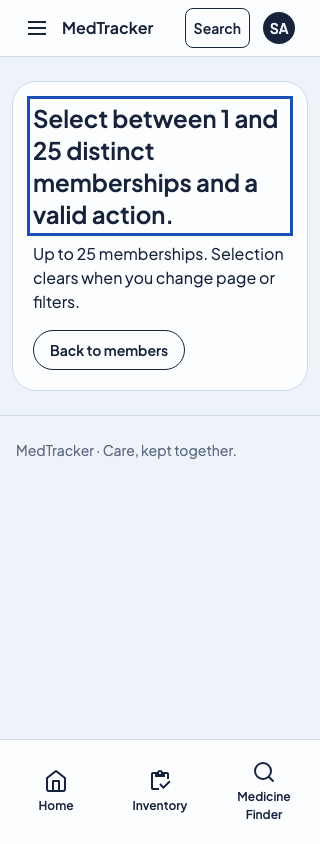
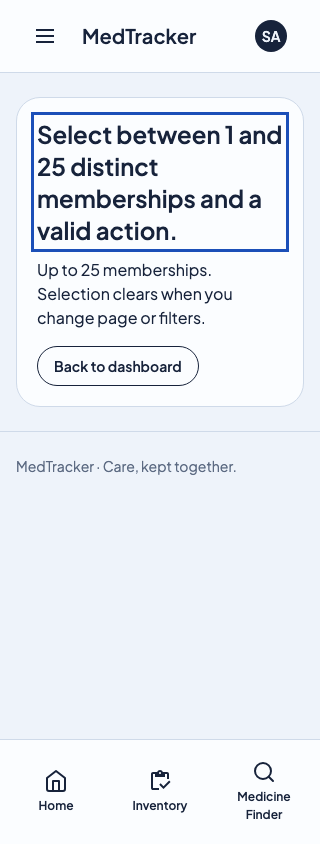
fix: keep invalid bulk submissions outside household navigation

diff --git a/assets/views/administration/bulk_invalid.html b/assets/views/administration/bulk_invalid.html
@@ -1,4 +1,4 @@
 {% extends "layouts/base.html" %}
 {% block content %}
-<section class="admin-page"><div class="shell-panel p-5"><h1 class="text-2xl font-semibold" tabindex="-1" autofocus>{{ title }}</h1><p class="mt-3">{{ bulk_labels.limit }}</p><a class="btn btn-outline mt-4" href="{{ return_url }}">{{ bulk_labels.back }}</a></div></section>
+<section class="admin-page"><div class="shell-panel p-5"><h1 class="text-2xl font-semibold" tabindex="-1" autofocus>{{ title }}</h1><p class="mt-3">{{ bulk_labels.limit }}</p><a class="btn btn-outline mt-4" href="/">{{ error_labels.back }}</a></div></section>
 {% endblock content %}

diff --git a/tests/browser/bulk_members.rs b/tests/browser/bulk_members.rs
@@ -1,7 +1,7 @@
 use crate::harness::{self, named};
 use playwright_rs::expect;
 use playwright_rs::protocol::{Animations, AriaRole, Page, ScreenshotOptions, Viewport};
-use sea_orm::ConnectionTrait;
+use sea_orm::{ConnectionTrait, DbBackend, Statement};
 
 async fn capture(page: &Page, name: &str) {
     expect(page.locator("body[data-navigation-ready]"))
@@ -63,6 +63,20 @@ async fn bulk_member_selection_confirmation_partial_retry_and_responsive_journey
         assert_eq!(page.evaluate::<(),i64>("() => document.querySelectorAll('input[name=membership_ids]:checked').length",None).await.unwrap(),0);
         page.goto(&listing,None).await.unwrap();
         expect(page.locator("body[data-navigation-ready]")).to_be_visible().await.unwrap();
+        page.get_by_label("Select Bulk Alpha",true).press("Space",None).await.unwrap();
+        page.get_by_label("Select Bulk Beta",true).press("Space",None).await.unwrap();
+        let unchanged_sql="SELECT jsonb_build_object('states',(SELECT jsonb_agg(jsonb_build_array(id,status,permissions_version,updated_at) ORDER BY id) FROM household_memberships WHERE id IN (74501,74502)),'audits',(SELECT count(*) FROM security_audit_events WHERE household_id=72001 AND event_type='household_access.membership_changed' AND metadata->>'target_membership_id' IN ('74501','74502'))) AS snapshot";
+        let before_cancel:serde_json::Value=journey.admin.query_one_raw(Statement::from_string(DbBackend::Postgres,unchanged_sql)).await.unwrap().unwrap().try_get("","snapshot").unwrap();
+        page.get_by_role(AriaRole::Button,named("Suspend selected")).press("Enter",None).await.unwrap();
+        expect(page.get_by_role(AriaRole::Button,named("Confirm Suspend"))).to_be_visible().await.unwrap();
+        page.get_by_role(AriaRole::Link,named("Back to members")).press("Enter",None).await.unwrap();
+        expect(page.locator("body[data-navigation-ready]")).to_be_visible().await.unwrap();
+        for context in ["q=Bulk","role=all","status=all","sort=name","direction=asc","page=1","lang=en"] {
+            assert!(page.url().contains(context),"missing returned context {context}: {}",page.url());
+        }
+        assert_eq!(page.evaluate::<(),i64>("() => document.querySelectorAll('input[name=membership_ids]:checked').length",None).await.unwrap(),0);
+        let after_cancel:serde_json::Value=journey.admin.query_one_raw(Statement::from_string(DbBackend::Postgres,unchanged_sql)).await.unwrap().unwrap().try_get("","snapshot").unwrap();
+        assert_eq!(after_cancel,before_cancel,"cancelling preview must not change member state or target audit");
         page.get_by_label("Select Bulk Alpha",true).press("Space",None).await.unwrap();
         page.get_by_label("Select Bulk Beta",true).press("Space",None).await.unwrap();
         page.get_by_role(AriaRole::Button,named("Suspend selected")).press("Enter",None).await.unwrap();

diff --git a/src/controllers/administration/bulk_members.rs b/src/controllers/administration/bulk_members.rs
@@ -235,14 +235,9 @@ async fn run(page: BulkPage<'_>, fields: Vec<(String, String)>, confirmed: bool)
         .find(|(key, _)| key == "lang")
         .and_then(|(_, value)| supported_language(value))
         .unwrap_or("en");
-    let error_context: HashMap<_, _> = fields
-        .iter()
-        .filter(|(key, _)| key != "membership_ids")
-        .cloned()
-        .collect();
     let submission = match Submission::parse(fields, confirmed) {
         Ok(value) => value,
-        Err(_) => return invalid_selection(view, token, slug, language, &error_context),
+        Err(_) => return invalid_selection(view, token, language),
     };
     if token
         .verify(forms::field(&submission.context, "authenticity_token"))
@@ -437,27 +432,16 @@ fn render(
     rendering::render(view, token, "administration/bulk_members.html", data, None)
 }
 
-fn invalid_selection(
-    view: &TeraView,
-    token: &CsrfToken,
-    slug: &str,
-    language: &str,
-    context: &HashMap<String, String>,
-) -> Response {
+fn invalid_selection(view: &TeraView, token: &CsrfToken, language: &str) -> Response {
     let Ok(labels) = crate::models::care::report_pdf::translations(language) else {
         return unavailable();
     };
-    let mut data = rendering::context(slug, None);
+    let mut data = super::super::medications::rendering::appearance_context();
     data["labels"] = labels.clone();
     data["lang"] = json!(language);
     data["title"] = labels["administration"]["bulk_members"]["invalid_selection"].clone();
     data["bulk_labels"] = labels["administration"]["bulk_members"].clone();
-    let query =
-        MemberQuery::from_form(context).unwrap_or_else(|_| MemberQuery::default().with_page(1));
-    data["return_url"] = json!(format!(
-        "/households/{slug}/admin/users{}",
-        query.suffix(Some(language))
-    ));
+    data["error_labels"] = labels["administration"]["errors"].clone();
     let response = rendering::render(view, token, "administration/bulk_invalid.html", data, None);
     (StatusCode::UNPROCESSABLE_ENTITY, response).into_response()
 }

diff --git a/tests/requests/bulk_members.rs b/tests/requests/bulk_members.rs
@@ -424,3 +424,44 @@ async fn bulk_member_denies_ordinary_revoked_locked_and_inactive_household_actor
     close(fixture, boot).await;
     Ok(())
 }
+
+#[tokio::test]
+async fn bulk_member_anonymous_malformed_post_uses_generic_navigation_without_effects() -> TestResult
+{
+    let (fixture, boot, request) = setup().await;
+    let anonymous = server(&boot);
+    for endpoint in ["preview", ""] {
+        let path = if endpoint.is_empty() {
+            "/households/fabricated-bulk-household/admin/users/bulk".to_string()
+        } else {
+            format!("/households/fabricated-bulk-household/admin/users/bulk/{endpoint}")
+        };
+        let response = anonymous
+            .post(&path)
+            .add_header("sec-fetch-site", "same-origin")
+            .form(&[
+                ("action", "suspend"),
+                ("q", "fabricated-search"),
+                ("lang", "en"),
+            ])
+            .await;
+        assert_eq!(response.status_code(), 422, "{}", response.text());
+        let html = response.text();
+        assert!(
+            !html.contains("fabricated-bulk-household"),
+            "anonymous error must not invent household navigation"
+        );
+        assert!(!html.contains("class=\"app-household\""));
+        assert!(!html.contains("data-sidebar-profile"));
+        assert!(!html.contains("/admin/users?"));
+        assert!(!html.contains("/people"));
+        assert_eq!(status(&fixture, 74061).await, "active");
+        assert_eq!(status(&fixture, 74062).await, "suspended");
+        assert_eq!(audit_count(&fixture, "success").await, 0);
+        assert_eq!(audit_count(&fixture, "rejected").await, 0);
+    }
+    drop(anonymous);
+    drop(request);
+    close(fixture, boot).await;
+    Ok(())
+}
